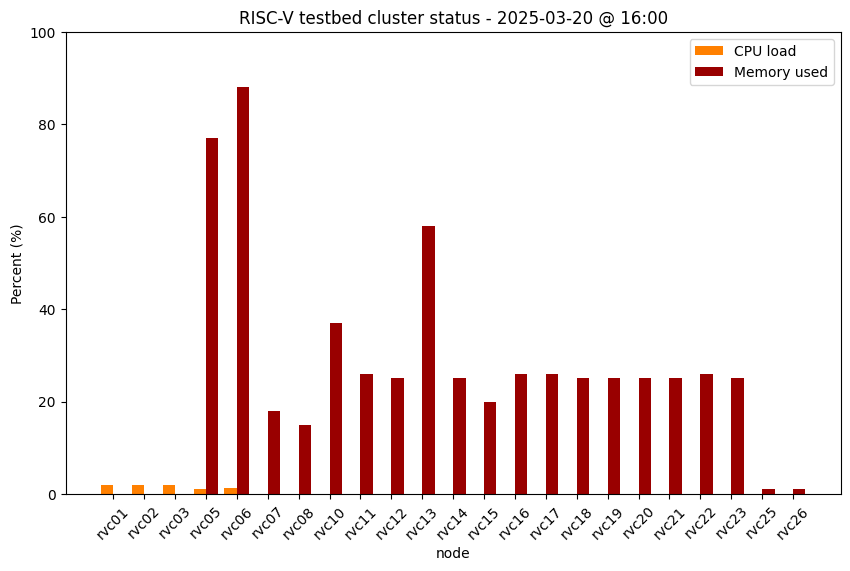
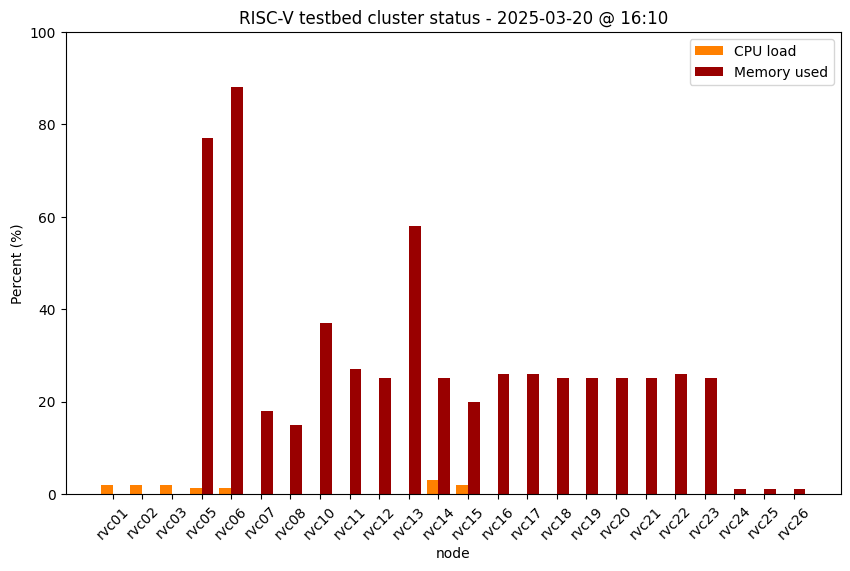
Update cluster status

Changed region(s): [[0.1529, 0.1489, 0.9482, 0.9527], [0.7647, 0.0298, 0.7953, 0.0595]]

diff --git a/status.md b/status.md
@@ -36,7 +36,7 @@ permalink: /status/
 | StarFive VisionFive V2 #11 | rvc21 | 4 | 8GB | <img src="/images/on.png" alt="green light" width="10"/> up |
 | StarFive VisionFive V2 #12 | rvc22 | 4 | 8GB | <img src="/images/on.png" alt="green light" width="10"/> up |
 | StarFive VisionFive V2 #13 | rvc23 | 4 | 8GB | <img src="/images/on.png" alt="green light" width="10"/> up |
-| Milk-V Pioneer #1 | rvc24 | 64 | 128GB | <img src="/images/off.png" alt="red light" width="10"/> down |
+| Milk-V Pioneer #1 | rvc24 | 64 | 128GB | <img src="/images/on.png" alt="green light" width="10"/> up |
 | Milk-V Pioneer #2 | rvc25 | 64 | 128GB | <img src="/images/on.png" alt="green light" width="10"/> up |
 | Milk-V Pioneer #3 | rvc26 | 64 | 128GB | <img src="/images/on.png" alt="green light" width="10"/> up |
 
